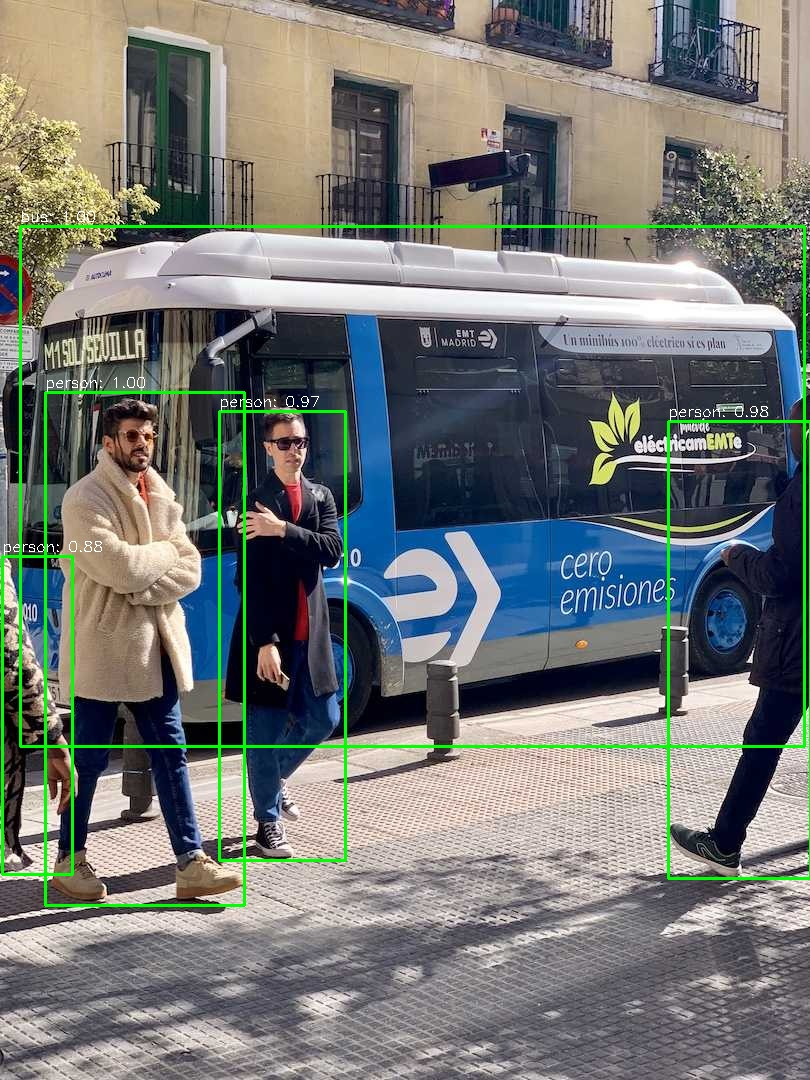
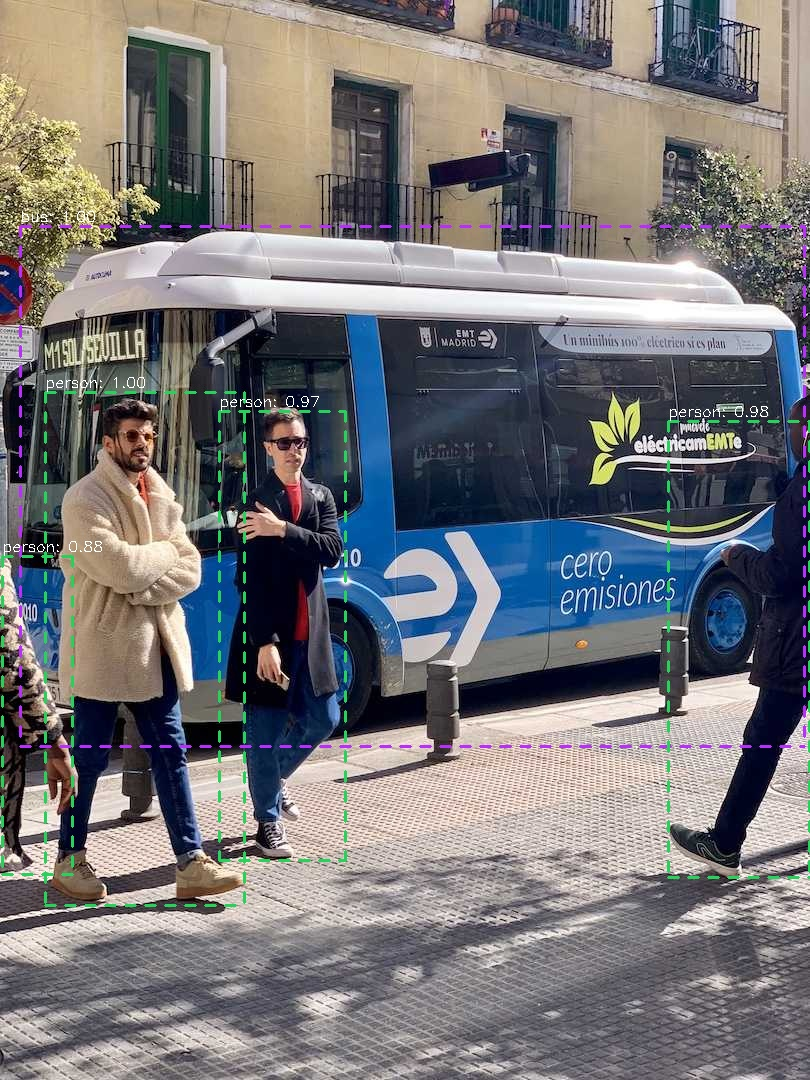
only kineva

Changed region(s): [[0.0, 0.1833, 1.0, 0.8556]]

diff --git a/kineva/models/kineva/model.py b/kineva/models/kineva/model.py
@@ -6,11 +6,11 @@ Licensed under the GNU Affero General Public License v3.0 (AGPL-3.0).
 For license details, see: https://www.gnu.org/licenses/agpl-3.0.html
 Project website: https://rebotnix.com
 """
-
 from pathlib import Path
 from typing import Any, Dict, List, Optional, Union
-from kineva.utils.trt import *
-from kineva.utils.processing import *
+#from kineva.utils.trt import *
+#from kineva.utils.processing import *
+from kineva.utils.general import *
 import numpy as np
 import torch
 import cv2
@@ -18,8 +18,8 @@ import json
 import sys
 import os
 sys.path.append(os.path.abspath('./core'))
-from .core.detect import Detector
-
+from .core.detect import Detector, TRTDetector
+from .core import EdgeYOLO
 class KINEVA():
 
     def __init__(self, model: Union[str, Path], img_size = 640, classes="./data/coco_classes_kineva.json", threshold=0.35):
@@ -36,23 +36,33 @@ class KINEVA():
             >>> from kineva import KINEVA
             >>> model = KINEVA("models/kineva_coco.trt")
         """
-        with open(classes, 'r') as f:
-            self.classes = json.load(f)
-        path = Path(model if isinstance(model, (str, Path)) else "")
+        #with open(classes, 'r') as f:
+        #    self.classes = json.load(f)
+        #path = Path(model if isinstance(model, (str, Path)) else "")
         self.img_size = img_size
-        self.path = str(path)
-        if str(path).endswith("trt"):
+        self.path = str(model)
+        if str(self.path).endswith("pt") or str(self.path).endswith("trt"):
             self.input = "trt"
-            engine = load_engine(path)
-            self.context = engine.create_execution_context()
-            self.inputs, self.outputs, self.bindings, self.stream = allocate_buffers(engine, mode="kineva")
-        
-        elif str(path).endswith("pth"):
+            self.model = TRTDetector(
+            weight_file=self.path,
+            conf_thres=threshold,
+            nms_thres=0.55,
+            input_size=[self.img_size, self.img_size],
+            fuse=True,
+            fp16=False,
+            use_decoder=False
+            )
+            self.classes = self.model.class_names
+            print("model loaded")
+            #engine = load_engine(path)
+            #self.context = engine.create_execution_context()
+            #self.inputs, self.outputs, self.bindings, self.stream = allocate_buffers(engine, mode="kineva")
+        elif str(self.path).endswith("pth"):
             self.input = "pth"
             self.model = Detector(
-            weight_file=path,
+            weight_file=self.path,
             conf_thres=threshold,
-            nms_thres=0.7,
+            nms_thres=0.55,
             input_size=[self.img_size, self.img_size],
             fuse=True,
             fp16=False,
@@ -65,18 +75,68 @@ class KINEVA():
     def export(self):
         from kineva.utils.export import convert_to_trt
         if self.input == "pth":
-            convert_to_trt(self.path, self.path.replace("pth", "trt"), self.img_size, "kineva")
+            #convert_to_trt(self.path, self.path.replace("pth", "trt"), self.img_size, "kineva")
+            exp=EdgeYOLO(weights=self.path)
+            model = exp.model
+            model.fuse()
+            model.eval()
+            import tensorrt as trt
+            from .core.export import torch2onnx2trt
+            x = np.ones([1, 3, *[self.img_size, self.img_size]], dtype=np.float32)
+            x = torch.from_numpy(x)  # .cuda()
+            model(x)  # warm and init
+            input_names = ["input_0"]
+            output_names = ["output_0"]
+            model_trt = torch2onnx2trt(
+            model,
+            [x],
+            fp16_mode=not False,
+            int8_mode=False,
+            int8_calib_dataset=None,
+            log_level=trt.Logger.INFO,
+            max_workspace_size=(int((1 << 30) * 8)),
+            max_batch_size=1,
+            use_onnx=True,
+            onnx_opset=11,
+            input_names=input_names,
+            output_names=output_names,
+            simplify=not False,
+            save_onnx=None,
+            save_trt=True
+            )
+            data_save = {
+            "names": self.model.class_names,
+            "img_size": [self.img_size, self.img_size],
+            "batch_size": 1,
+            "pixel_range": exp.ckpt.get("pixel_range") or 255,  # input image pixel value range: 0-1 or 0-255
+            "obj_conf_enabled": True,  # Edge-YOLO use cls conf and obj conf
+            "input_name": "input_0",
+            "output_name": "output_0",
+            "dtype": "float"
+            }
+            data_save["model"] = model_trt.state_dict()
+            torch.save(data_save, self.path.replace("pth", "pt"))
+
         else:
             print("Sorry. You already have a trt model.")
 
     def detect(self, image, threshold=0.35):
-        self.original_image = cv2.imread(image)
+        if isinstance(image, str):
+          image = cv2.imread(image)
+        self.original_image = image
         if self.input == "trt":
-            input_image, ratios = preprocess(image, img_size=(self.img_size,self.img_size ), mode="kineva")
-            np.copyto(self.inputs[0]['host'], input_image.ravel())
-            outputs_data = infer(self.context, self.inputs, self.outputs, self.stream, mode="kineva")[0]
-            outputs_data = torch.from_numpy(outputs_data).float()
-            final_boxes, final_scores, final_labels = postprocess_kineva(outputs_data, ratios, len(self.classes), conf_thre=threshold)
+            self.model.conf_thres = threshold
+            results = self.model([self.original_image], False)
+            detections = results[0]  # Get the actual tensor from the list
+            #print(detections)
+            final_boxes = detections[:, 0:4]     # x1, y1, x2, y2
+            final_scores = detections[:, 4]      # confidence
+            final_labels = detections[:, 6].long()  # class_id as integers
+            #input_image, ratios = preprocess(image, img_size=(self.img_size,self.img_size ), mode="kineva")
+            #np.copyto(self.inputs[0]['host'], input_image.ravel())
+            #outputs_data = infer(self.context, self.inputs, self.outputs, self.stream, mode="kineva")[0]
+            #outputs_data = torch.from_numpy(outputs_data).float()
+            #final_boxes, final_scores, final_labels = postprocess_kineva(outputs_data, ratios, len(self.classes), conf_thre=threshold)
             #final_boxes, final_scores, final_labels = agnostic_nms_with_nested_removal(outputs_data, self.original_image, conf_threshold=threshold, iou_threshold=0.7, max_detections=300)
             return final_boxes, final_scores, final_labels
         else:
@@ -89,13 +149,15 @@ class KINEVA():
             return final_boxes, final_scores, final_labels
 
     def draw(self, final_boxes, final_scores, final_labels, output_path="output.jpg"):
+        color_palette = generate_color_palette(self.classes)
         # Draw detections
         for ind, det in enumerate(final_boxes):
             x1, y1, x2, y2 = det
             conf = final_scores[ind]
             cls_id = int(final_labels[ind])
             # Draw
-            cv2.rectangle(self.original_image, (int(x1), int(y1)), (int(x2), int(y2)), (0, 255, 0), 2)
+            #cv2.rectangle(self.original_image, (int(x1), int(y1)), (int(x2), int(y2)), (0, 255, 0), 1)
+            self.original_image = draw_dashed_rectangle(self.original_image, (int(x1), int(y1)), (int(x2), int(y2)), color=color_palette[self.classes[cls_id]])
             label = f"{self.classes[int(cls_id)]}: {conf:.2f}"
             cv2.putText(self.original_image, label, (int(x1), int(y1) - 5), cv2.FONT_HERSHEY_SIMPLEX, 0.5, (255, 255, 255), 1)
 

diff --git a/kineva/utils/general.py b/kineva/utils/general.py
@@ -1,0 +1,71 @@
+import numpy as np
+import cv2
+
+def generate_color_palette(classes, seed=42):
+    """Generate a consistent color palette for classes using a seed"""
+    np.random.seed(seed)
+    colors = {}
+    golden_ratio = 0.618033988749895  # Use golden ratio for better color distribution
+    num_classes = len(classes)
+    for i, el in enumerate(classes):
+        # Generate HSV values
+        hue = (i * golden_ratio) % 1.0
+        saturation = 0.8 + np.random.random() * 0.2  # 0.8-1.0
+        value = 0.8 + np.random.random() * 0.2  # 0.8-1.0
+        
+        # Convert HSV to RGB
+        h = hue * 6
+        c = value * saturation
+        x = c * (1 - abs(h % 2 - 1))
+        m = value - c
+        
+        if h < 1:
+            rgb = (c, x, 0)
+        elif h < 2:
+            rgb = (x, c, 0)
+        elif h < 3:
+            rgb = (0, c, x)
+        elif h < 4:
+            rgb = (0, x, c)
+        elif h < 5:
+            rgb = (x, 0, c)
+        else:
+            rgb = (c, 0, x)
+            
+        # Convert to 8-bit RGB values
+        color = tuple(int((cc + m) * 255) for cc in rgb)
+        colors[el] = color
+    
+    return colors
+
+def draw_dashed_rectangle(img, pt1, pt2, color=(0,0,255), thickness=2, dash_length=10):
+    """
+    Draw a dashed rectangle from pt1 to pt2.
+    
+    :param img: Image to draw on
+    :param pt1: Top-left corner of the rectangle (x, y)
+    :param pt2: Bottom-right corner of the rectangle (x, y)
+    :param color: Line color (B, G, R)
+    :param thickness: Line thickness
+    :param dash_length: Length of dashes
+    """
+    x1, y1 = pt1
+    x2, y2 = pt2
+
+    # Draw top side
+    for x in range(x1, x2, dash_length * 2):
+        cv2.line(img, (x, y1), (min(x + dash_length, x2), y1), color, thickness)
+    
+    # Draw bottom side
+    for x in range(x1, x2, dash_length * 2):
+        cv2.line(img, (x, y2), (min(x + dash_length, x2), y2), color, thickness)
+    
+    # Draw left side
+    for y in range(y1, y2, dash_length * 2):
+        cv2.line(img, (x1, y), (x1, min(y + dash_length, y2)), color, thickness)
+    
+    # Draw right side
+    for y in range(y1, y2, dash_length * 2):
+        cv2.line(img, (x2, y), (x2, min(y + dash_length, y2)), color, thickness)
+
+    return img

diff --git a/examples/test_kineva.py b/examples/test_kineva.py
@@ -1,7 +1,7 @@
 from kineva import KINEVA
 
 #initialize model
-model = KINEVA(model="models/rb_coco.pth", classes="./data/coco_classes_kineva.json")
+model = KINEVA(model="models/rb_coco.pth")
 
 #run inference on image
 final_boxes, final_scores, final_labels = model.detect("images/bus.jpg", threshold=0.35)

diff --git a/kineva/industrial/modbus/core/server.py b/kineva/industrial/modbus/core/server.py
@@ -12,7 +12,7 @@ from warnings import warn
 # add a logger for pyModbusTCP.server
 logger = logging.getLogger('pyModbusTCP.server')
 
-print("REBOTNIX MODBUS SERVER INIT!")
+#print("REBOTNIX MODBUS SERVER INIT!")
 
 class DataBank:
     """ Data space class with thread safe access functions """

diff --git a/examples/export_kineva.py b/examples/export_kineva.py
@@ -1,7 +1,7 @@
 from kineva import KINEVA
 
 #initialize model
-model = KINEVA(model="models/kineva_coco.pth", classes="./data/coco_classes_kineva.json")
+model = KINEVA(model="models/rb_coco.pth", classes="./data/coco_classes_kineva.json")
 
 #export model to trt
 model.export()

diff --git a/README.md b/README.md
@@ -68,34 +68,34 @@ Install steps for **Jetpack 5.1 or 5.2**:
 
 ```bash
 #install torch
-wget https://docs.rebotnix.com/downloads/wheels/torch-2.2.0-cp38-cp38-linux_aarch64.whl
+wget https://docs.rebotnix.com/downloads/wheels/torch-2.2.0-cp38-cp38-linux_aarch64.whl --no-check-certificate
 pip install torch-2.2.0-cp38-cp38-linux_aarch64.whl
 
 #install torchvision
-wget https://docs.rebotnix.com/downloads/wheels/torchvision-0.17.2+c1d70fe-cp38-cp38-linux_aarch64.whl
+wget https://docs.rebotnix.com/downloads/wheels/torchvision-0.17.2+c1d70fe-cp38-cp38-linux_aarch64.whl --no-check-certificate
 pip install torchvision-0.17.2+c1d70fe-cp38-cp38-linux_aarch64.whl
 
 # install tensorrt
 mkdir -p venv/lib/python3.8/site-packages/tensorrt
-wget -P venv/lib/python3.8/site-packages/tensorrt https://docs.rebotnix.com/downloads/wheels/tensorrt_38/__init__.py
-wget -P venv/lib/python3.8/site-packages/tensorrt https://docs.rebotnix.com/downloads/wheels/tensorrt_38/tensorrt.so
+wget -P venv/lib/python3.8/site-packages/tensorrt https://docs.rebotnix.com/downloads/wheels/tensorrt_38/__init__.py --no-check-certificate
+wget -P venv/lib/python3.8/site-packages/tensorrt https://docs.rebotnix.com/downloads/wheels/tensorrt_38/tensorrt.so --no-check-certificate
 ```
 
 Install steps for **Jetpack 6.1**:
 
 ```bash
 #install torch
-wget https://docs.rebotnix.com/downloads/wheels/torch-2.7.0-cp310-cp310-linux_aarch64.whl
+wget https://docs.rebotnix.com/downloads/wheels/torch-2.7.0-cp310-cp310-linux_aarch64.whl --no-check-certificate
 pip install torch-2.7.0-cp310-cp310-linux_aarch64.whl
 
 #install torchvision
-wget https://docs.rebotnix.com/downloads/wheels/torchvision-0.22.0-cp310-cp310-linux_aarch64.whl
+wget https://docs.rebotnix.com/downloads/wheels/torchvision-0.22.0-cp310-cp310-linux_aarch64.whl --no-check-certificate
 pip install torchvision-0.22.0-cp310-cp310-linux_aarch64.whl
 
 # install tensorrt
 mkdir -p venv/lib/python3.10/site-packages/tensorrt
-wget -P venv/lib/python3.10/site-packages/tensorrt https://docs.rebotnix.com/downloads/wheels/tensorrt_310/__init__.py
-wget -P venv/lib/python3.10/site-packages/tensorrt https://docs.rebotnix.com/downloads/wheels/tensorrt_310/tensorrt.so
+wget -P venv/lib/python3.10/site-packages/tensorrt https://docs.rebotnix.com/downloads/wheels/tensorrt_310/__init__.py --no-check-certificate
+wget -P venv/lib/python3.10/site-packages/tensorrt https://docs.rebotnix.com/downloads/wheels/tensorrt_310/tensorrt.so --no-check-certificate
 ```
 
 Now install requirements:
@@ -140,7 +140,7 @@ The model works seamlessly with KINEVA’s modular interface—just specify the 
 
 ## EXAMPLES
 
-### Download a RFDETR model for export
+### Download a KINEVA model for export
 Exchange the placeholder YOUR_HF_TOKEN with your own huggingface token.
 
 ```bash
@@ -150,13 +150,6 @@ curl -L -o rb_coco.pth -H "Authorization: Bearer YOUR_HF_TOKEN" "https://hugging
 cd ..
 ```
 
-### Export RFDETR model to TRT
-Run the export script to create a .trt file.
-```bash
-PYTHONPATH=$(pwd) python examples/export_rfdetr.py
-```
-Edit the file examples/export_rfdetr.py if you want to change the pth file.
-
 ### Export KINEVA model to TRT
 Run the export script to create a .trt file.
 ```bash
@@ -165,20 +158,12 @@ PYTHONPATH=$(pwd) python examples/export_kineva.py
 Edit the file examples/export_kineva.py if you want to change the pth file.
 
 
-### Run inference with RFDETR TRT
-
-```bash
-PYTHONPATH=$(pwd) python examples/test_rfdetr.py
-```
-
-Edit the file examples/test_rfdetr.py if you want to change the trt model file:
-
-
 ### Run inference with KINEVA TRT
 
 ```bash
 PYTHONPATH=$(pwd) python examples/test_kineva.py
 ```
+Edit the file examples/test_kineva.py if you want to change the pth/pt file.
 
 
 ## CONTACT
